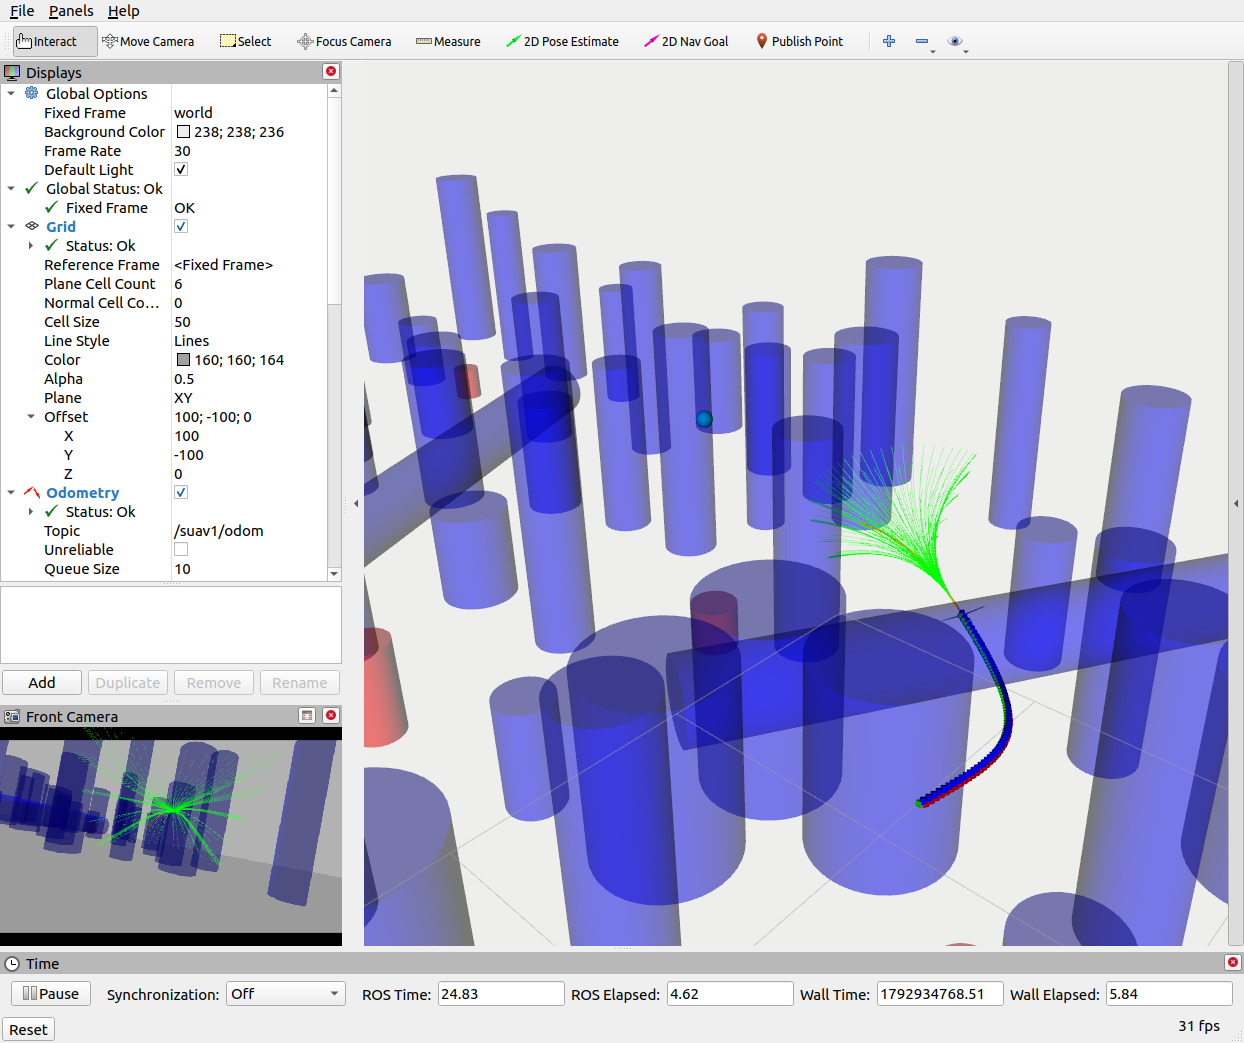
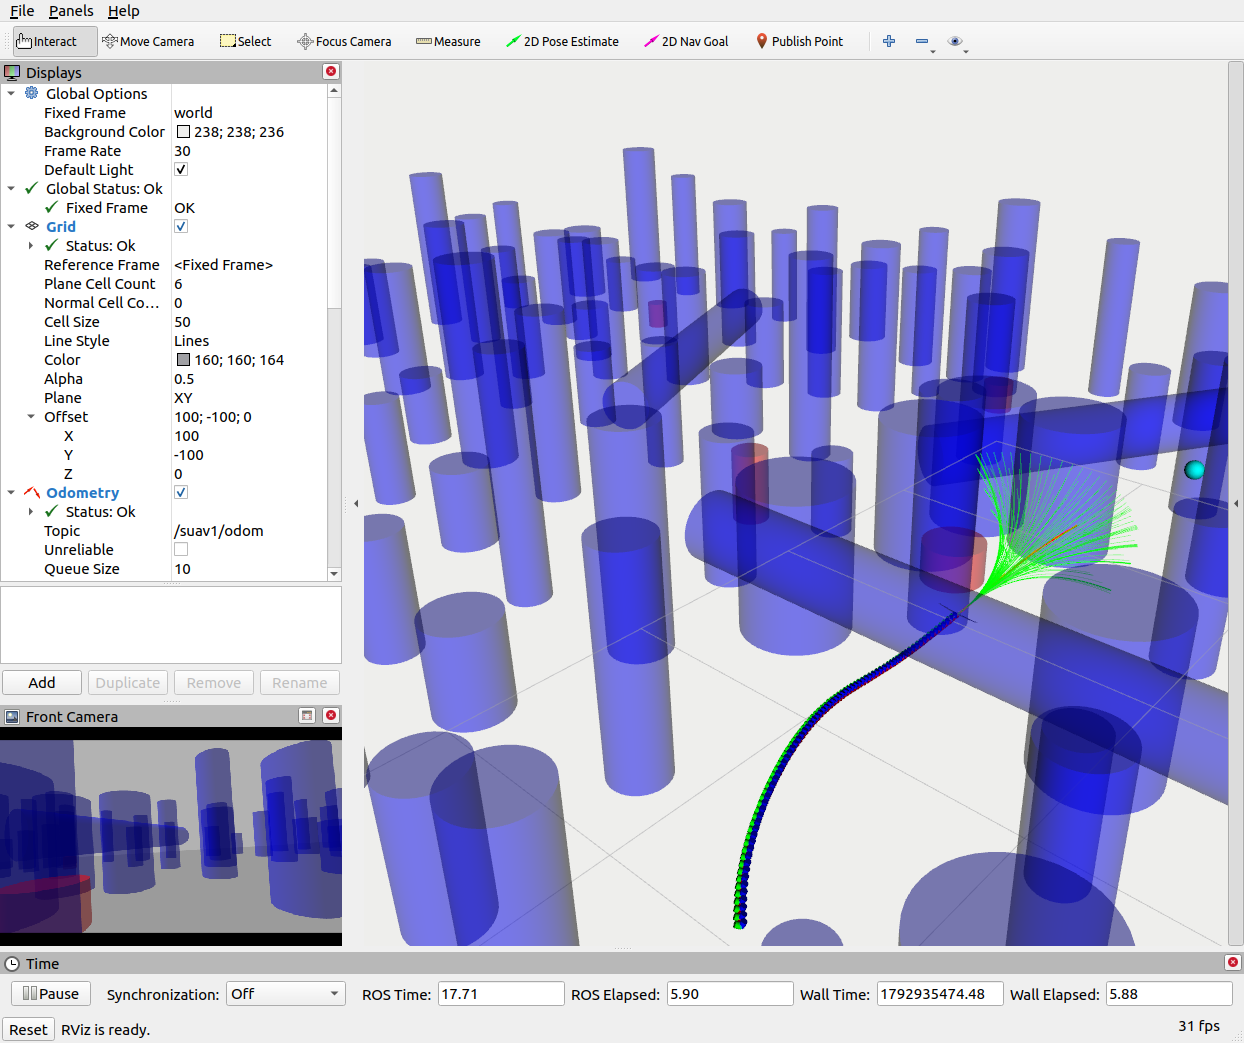
Show only the raw nose camera image in RViz

diff --git a/README.md b/README.md
@@ -22,7 +22,7 @@ The solid green line is the measured flight after adding six pillars directly on
 - Model-based trajectory rollouts with climb, descent, turning, and actuator response.
 - Collision checks for finite-height upright cylinders, spheres, oriented horizontal cylinders, and predicted moving obstacles.
 - One launch file starts Gazebo, RViz, the planner, and dynamic-obstacle synchronization.
-- A fixed nose camera streams live video with motion-primitive overlays in RViz's lower-left panel.
+- A fixed nose camera streams live video in RViz's lower-left panel.
 - **Blue static obstacles** and **red dynamic obstacles** in both interfaces. Green lines show candidate trajectories.
 - Scene observers that verify vertical passages and obstacle motion without commanding the aircraft.
 
@@ -38,7 +38,7 @@ Pillars 226–231 were added on the previously measured flight path to break up 
 | ROS | ROS 1 Noetic |
 | Simulator | Gazebo Classic 11.15.1 |
 | Visualization | RViz for ROS Noetic |
-| Python | Python 3 with PyYAML and NumPy |
+| Python | Python 3 with PyYAML |
 
 These launch files target ROS 1 and Gazebo Classic. ROS 2 and the newer Gazebo simulator are not covered by this setup.
 
@@ -48,7 +48,7 @@ Start with an installed ROS Noetic environment. Install the demo dependencies:
 
 ```bash
 sudo apt update
-sudo apt install -y build-essential git python3-yaml python3-numpy \
+sudo apt install -y build-essential git python3-yaml \
   ros-noetic-catkin ros-noetic-gazebo-ros-pkgs \
   ros-noetic-robot-state-publisher ros-noetic-xacro \
   ros-noetic-rviz ros-noetic-tf ros-noetic-rostest
@@ -88,17 +88,16 @@ roslaunch motion_primitives_planning motion_primitives_3d_horizontal.launch
 
 This combined launch already starts both interfaces; a separate Gazebo or planner launch is unnecessary.
 
-### Nose camera and trajectory overlay
+### Nose camera
 
-![Live nose-camera image with projected motion primitives in the lower-left RViz panel](docs/images/front-camera.png)
+![Live nose-camera image in the lower-left RViz panel](docs/images/front-camera.png)
 
 The **Front Camera** panel below Displays in RViz shows a forward-facing camera attached to the aircraft nose. The image follows the aircraft's roll, pitch, and heading. It uses a 640 × 360 RGB image, a 90° horizontal field of view, and a 15 Hz publication limit. Click Gazebo's **Play** button to start updating the view; pausing the simulation freezes it.
 
-RViz's Camera display projects the green candidate primitives and the selected trajectory over the camera image. A visualization relay uses thin lines and clips segments within 5 m of the lens so nearby lines do not cover the view. Grid, robot, goal, and obstacle markers are hidden only in this camera panel; the main 3D view keeps its usual displays. These overlays are drawn by RViz and are not part of the raw Gazebo camera image.
+RViz's Image display shows the raw camera image. Motion primitives remain visible in the main 3D view and are not overlaid on the camera panel.
 
 - Raw RGB image: `/suav1/front_camera/image_raw`
 - Camera calibration: `/suav1/front_camera/camera_info`
-- Clipped trajectory overlay: `/suav1/front_camera/primitives`
 - Optical TF frame: `suav1/front_camera_optical_frame`
 
 The shared camera definition is in `simple-airplane/simple_airplane_description/urdf/simple_airplane_front_camera.xacro`. The saved Gazebo worlds include the same sensor on the existing aircraft link, without adding mass or collision geometry. The camera is for visualization; the planner continues using the configured obstacle geometry.
